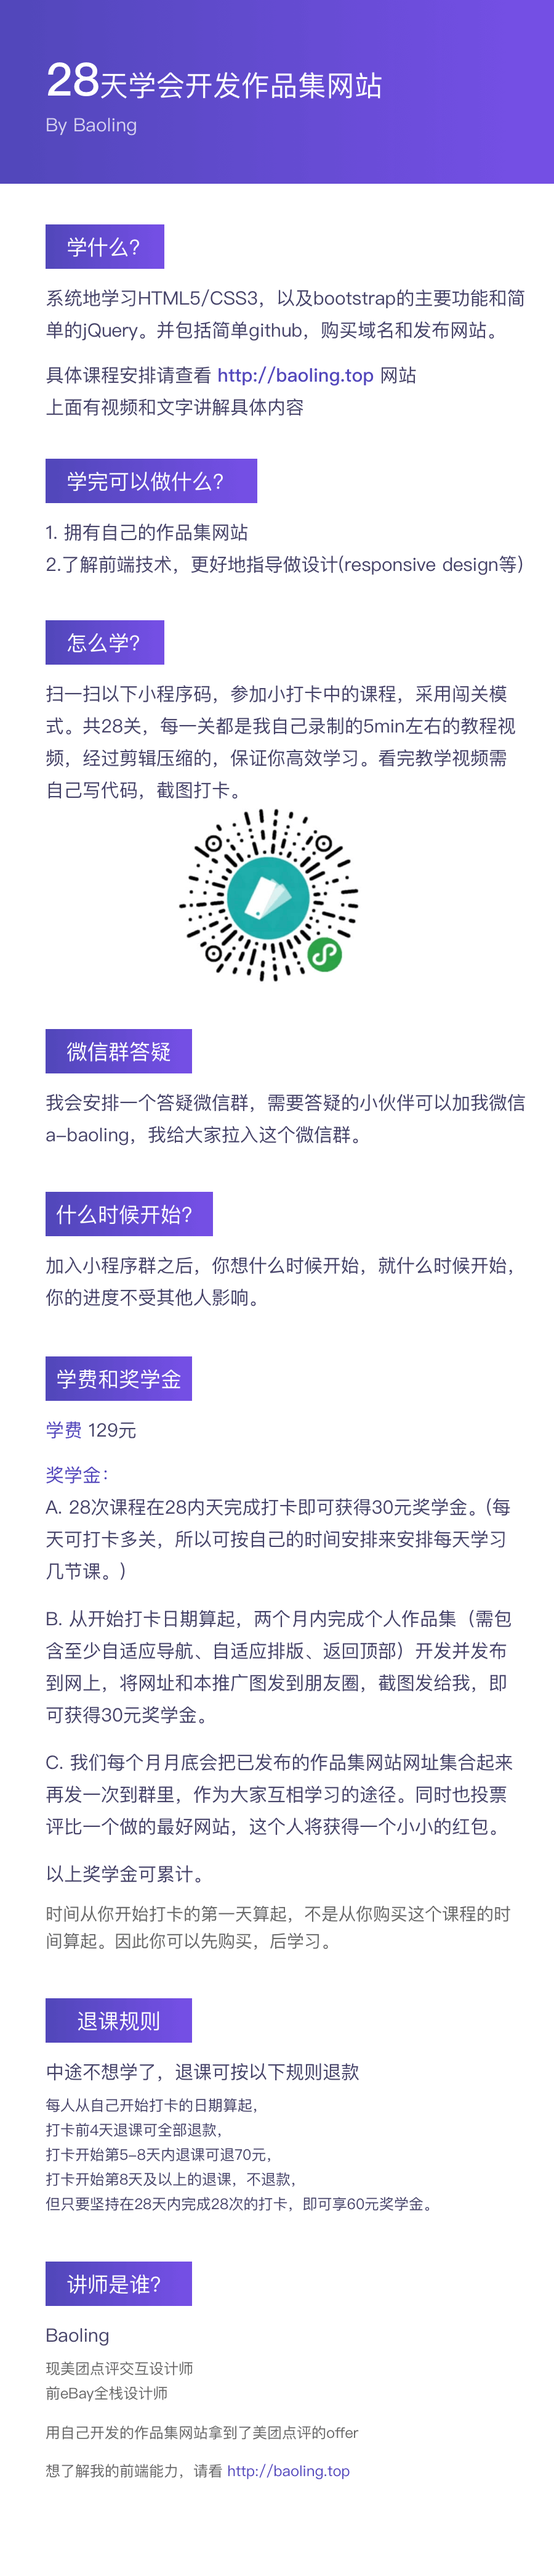
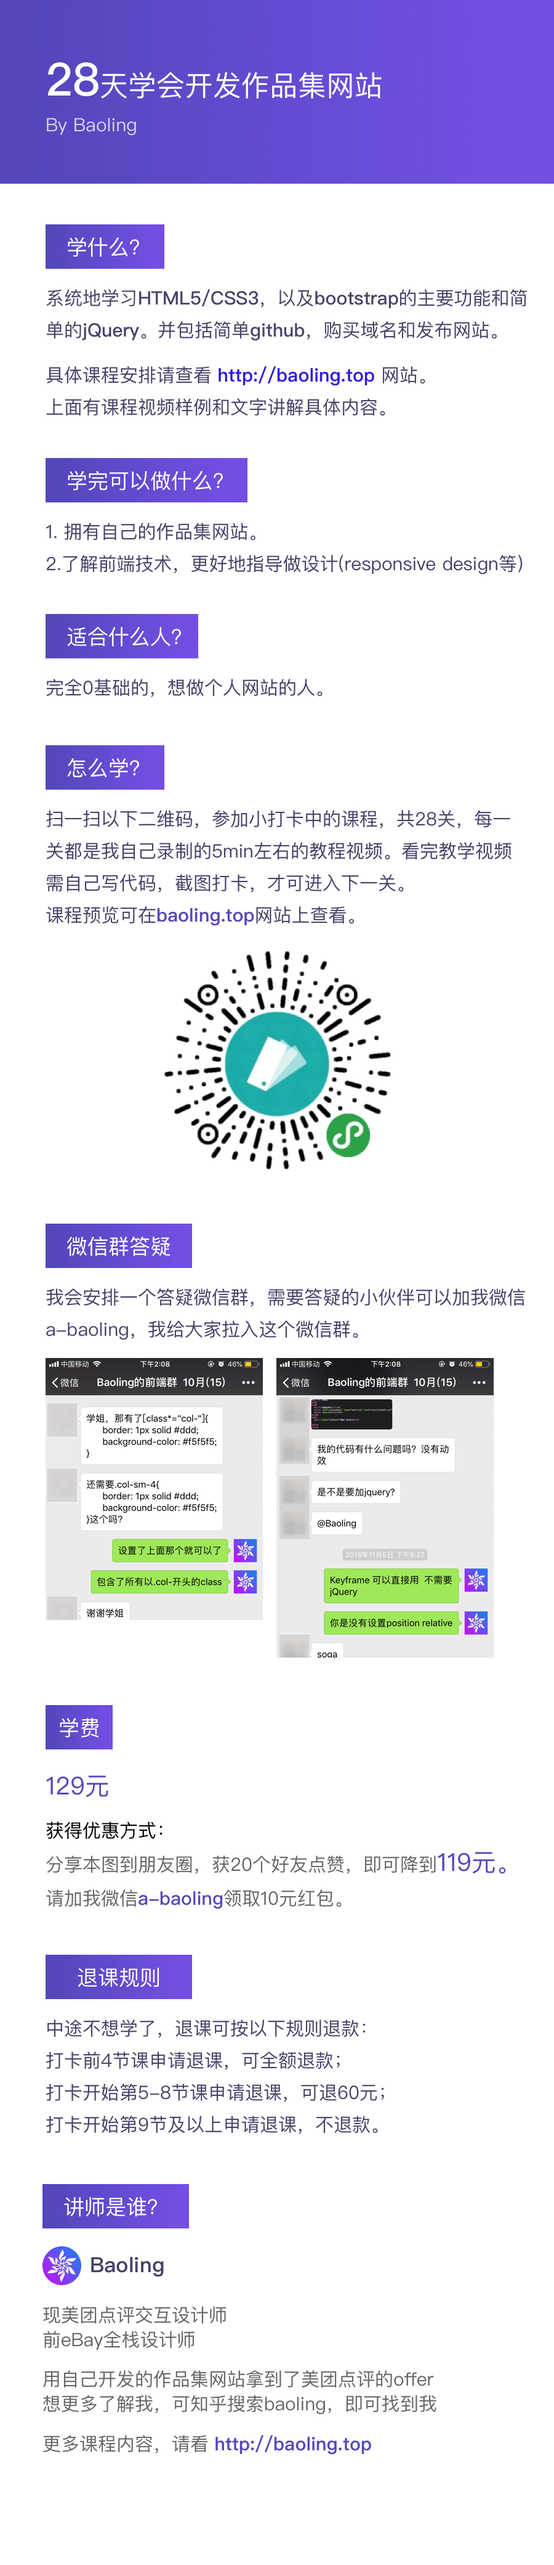
poster 129

Changed region(s): [[0.0622, 0.0937, 0.9333, 0.9685], [0.84, 0.4062, 0.9022, 0.4374]]

diff --git a/index.html b/index.html
@@ -120,10 +120,11 @@
 						或直接扫小程序二维码进群学习。<br/>
 						<img class="baoling_wechat" src="imgs/baoling.jpg">
 						<img class="baoling_wechat" src="imgs/QR.png">
+						<div style="padding-top: 12px;">学费129元。前4节课不满意可全额退款，5-8节课退课可退60元，9节以上不退款。</div>
 					</div>
 					<div style="padding-top: 30px;">
 						推广图<br/>
-						<img class="poster-me"  class="baoling_wechat" src="imgs/poster1.png">
+						<img class="poster-me"  class="baoling_wechat" src="imgs/poster.png">
 					</div>
 					
 				</div>
